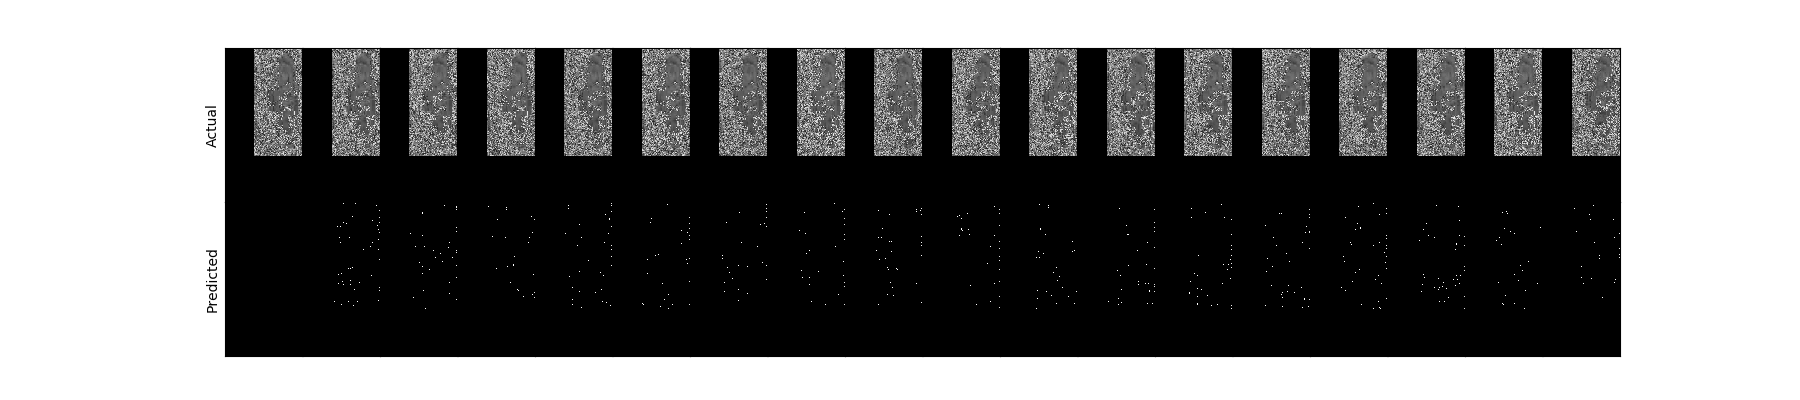
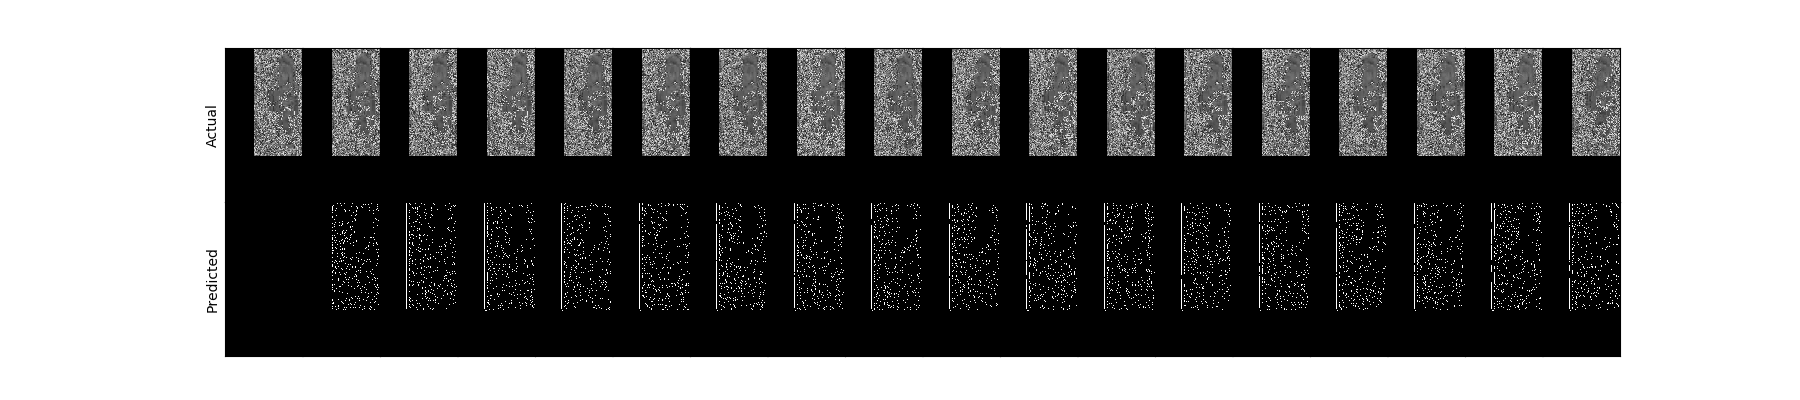
altering weights and layers to see what happens

diff --git a/MR_train.py b/MR_train.py
@@ -180,12 +180,12 @@ N_seq_val = 5  # number of sequences to use for validation
 n_channels, im_height, im_width = (1, 128, 256)
 input_shape = (im_height, im_width, n_channels)
 #input_shape = (n_channels, im_height, im_width)  if K.image_data_format() == 'channels_first' else (im_height, im_width, n_channels)
-stack_sizes = (n_channels, 48, 96, 192)
+stack_sizes = (n_channels, 24, 48, 96, 192)
 R_stack_sizes = stack_sizes
-A_filt_sizes = (3, 3, 3)
-Ahat_filt_sizes = (3, 3, 3, 3)
-R_filt_sizes = (3, 3, 3, 3)
-layer_loss_weights = np.array([1., 0., 0., 0.])  # weighting for each layer in final loss; "L_0" model:  [1, 0, 0, 0], "L_all": [1, 0.1, 0.1, 0.1]
+A_filt_sizes = (3, 3, 3, 3)
+Ahat_filt_sizes = (3, 3, 3, 3, 3)
+R_filt_sizes = (3, 3, 3, 3, 3)
+layer_loss_weights = np.array([1., 0., 0., 0., 0.])  # weighting for each layer in final loss; "L_0" model:  [1, 0, 0, 0], "L_all": [1, 0.1, 0.1, 0.1]
 layer_loss_weights = np.expand_dims(layer_loss_weights, 1)
 nt = 18 # number of timesteps used for sequences in training
 time_loss_weights = 1./ (nt - 1) * np.ones((nt,1))  # equally weight all timesteps except the first
